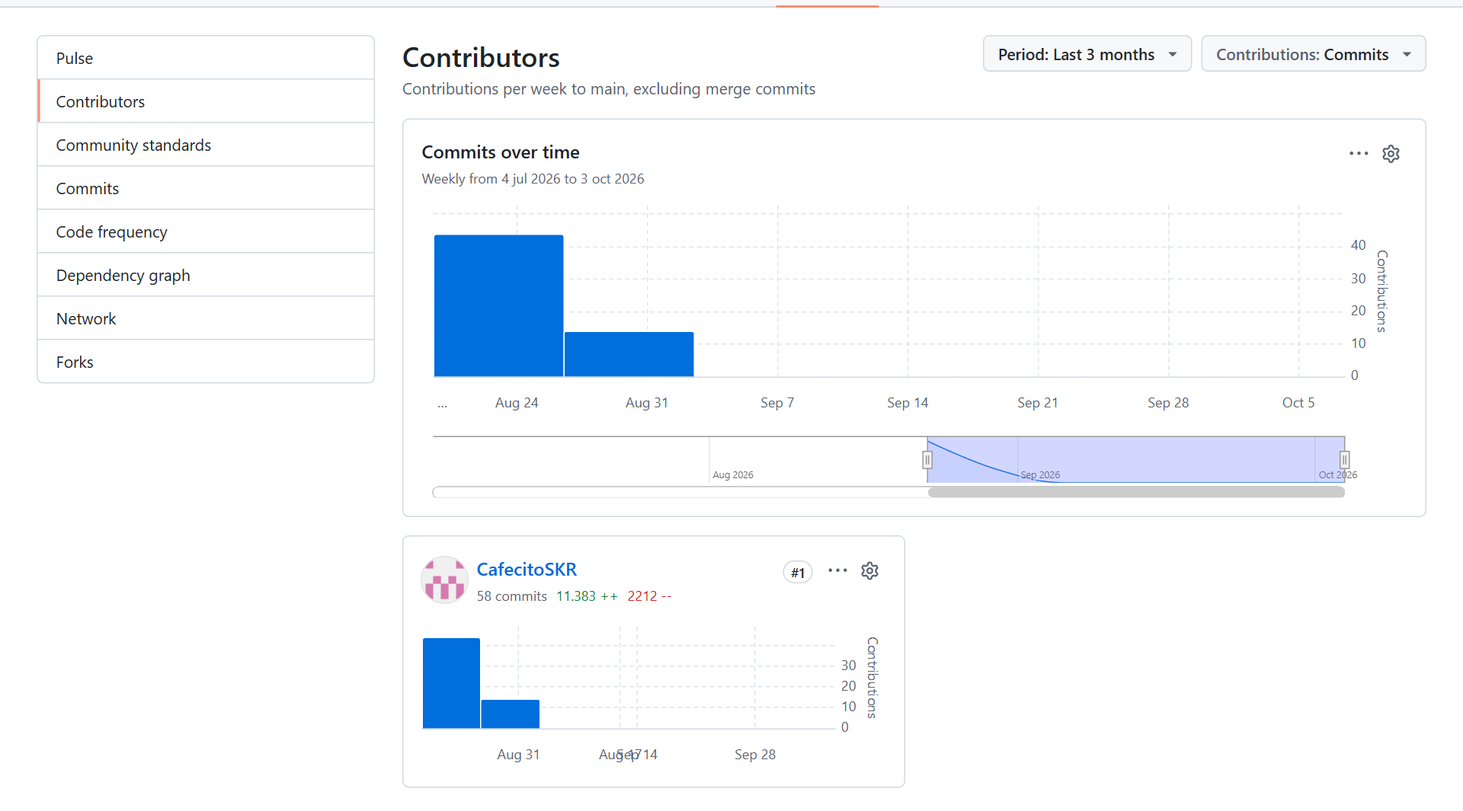
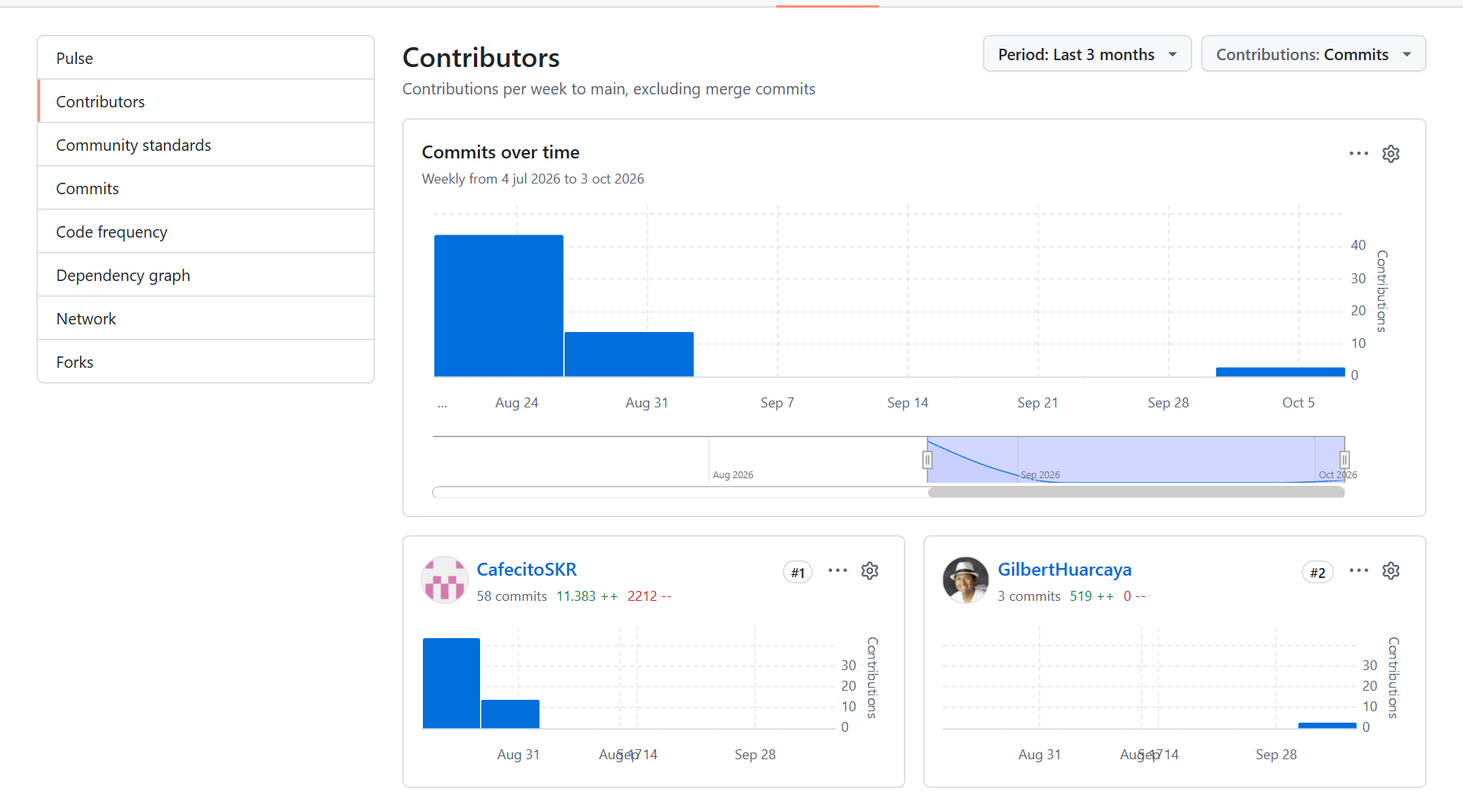
docs(report): sync tb1 version registry, student outcome and insights after the cloud-api release

diff --git a/README.md b/README.md
@@ -48,6 +48,18 @@
 | 0.14 | 14/09/2026 | Espino Flores, Alejandro | Sección 4.1: diseño estratégico con Bounded Context Canvases, Context Mapping con las alternativas descartadas y arquitectura C4 en sus cuatro niveles. |
 | 0.15 | 14/09/2026 | Espino Flores, Alejandro | Secciones 3.2 y 3.3: Impact Mapping con Business Goals en formato SMART, y Product Backlog con las 65 historias estimadas y ordenadas por valor de negocio. |
 | 0.16 | 14/09/2026 | Solis Santa Cruz, Giancarlo Rafael | Registro de entrevista para segmento objetivo 1 e impact mapping |
+| 0.17 | 18/09/2026 | Huarcaya Matias, Gilbert Alonso | Versión consolidada para la primera entrega, con los Capítulos I a IV. |
+| 0.18 | 18/09/2026 | Llamccaya Arone, Juan Paul | Se agregó el registro de una entrevista correspondiente al segmento objetivo 1, incluyendo la información recopilada y su respectivo análisis para complementar el proceso de levantamiento de requisitos. |
+| 0.19 | 18/09/2026 | Llamccaya Arone, Juan Paul | Se elaboró y organizó el Product Backlog del proyecto en Trello, incorporando las historias de usuario y técnicas previamente definidas y ordenándolas de acuerdo con su prioridad y valor de negocio. |
+| 0.20 | 29/09/2026 | Luyo Correa, Sandra Paula | Estructura de la entrega TB1: títulos de los Capítulos V y VI, tabla de contenidos y fecha de la carátula. |
+| 0.21 | 03/10/2026 | Llamccaya Arone, Juan Paul | Secciones 5.2.3, 5.2.4, 5.2.5, 5.3, 5.3.1 y 5.3.2: SEO Tags and Meta Tags, sistemas de búsqueda y navegación, y wireframes y mock-ups de la Landing Page publicada. |
+| 0.22 | 05/10/2026 | Huarcaya Matias, Gilbert Alonso | Secciones 5.4.1, 5.4.2 y 5.5: wireframes, mock-ups y prototipos de la Web Application y de la Mobile Application, con sus videos de navegación. Sección 6.2.1.2: matriz de líderes y colaboradores del Sprint 1. |
+| 0.23 | 06/10/2026 | Espino Flores, Alejandro | Secciones 5.1.1, 5.1.2, 5.2.1, 5.2.2, 5.6 y 6.1.1: guías de estilo, sistemas de organización y etiquetado, diseño del dispositivo IoT con su circuito en Wokwi y configuración del entorno de desarrollo. |
+| 0.24 | 06/10/2026 | Solis Santa Cruz, Giancarlo Rafael | Sección 5.4.4: User Flow Diagrams de la Web Application y de la Mobile Application. |
+| 0.25 | 06/10/2026 | Luyo Correa, Sandra Paula | Conclusiones de la entrega TB1 y enlaces a los repositorios de las aplicaciones. |
+| 0.26 | 07/10/2026 | Solis Santa Cruz, Giancarlo Rafael | Secciones 6.2.1.4, 6.2.1.6, 6.2.1.7 y 6.2.1.8: evidencias de desarrollo, ejecución, documentación de servicios y despliegue del Sprint 1. |
+| 0.27 | 07/10/2026 | Lang Nassi, Werner Khalil | Secciones 6.1.2, 6.1.3, 6.1.4 y 6.2.1.3: gestión del código fuente, guía de estilo y convenciones, configuración de despliegue y Sprint Backlog 1. |
+| 0.28 | 07/10/2026 | Huarcaya Matias, Gilbert Alonso | Secciones 6.2.1.5 y 6.2.1.9: suite de pruebas de los servicios web y analíticos de colaboración del Sprint 1. Project Report Collaboration Insights de TB1, renumeración de figuras y entradas de los Capítulos V y VI en la tabla de contenidos. |
 | AV1 | 18/09/2026 | Huarcaya Matias, Gilbert Alonso | Versión consolidada para la primera entrega, con los Capítulos I a IV. |
 
 <hr>
@@ -86,17 +98,17 @@ Entre el 1 y el 20 de septiembre de 2026 se registraron 63 commits de contenido,
 
 **TB1**
 
-En esta entrega el reparto de secciones se acordó en un documento compartido del equipo y los títulos de los Capítulos V y VI se publicaron primero en develop, para que cada integrante completara su parte sobre la misma estructura. Desde el 6 de octubre la organización protege main y develop, de modo que todo cambio entra por pull request y la rama se elimina al integrarse. Además del informe, en esta entrega se trabajó en los repositorios de los productos: el Landing Page, la Web Application, la Mobile Application y los RESTful Web Services. Entre el 21 de septiembre y el 7 de octubre se registraron 26 commits de contenido en el repositorio del informe y 6 en los repositorios de código. La participación de cada integrante por repositorio es la siguiente:
+En esta entrega el reparto de secciones se acordó en un documento compartido del equipo y los títulos de los Capítulos V y VI se publicaron primero en develop, para que cada integrante completara su parte sobre la misma estructura. Desde el 6 de octubre la organización protege main y develop, de modo que todo cambio entra por pull request y la rama se elimina al integrarse. Además del informe, en esta entrega se trabajó en los repositorios de los productos: el Landing Page, la Web Application, la Mobile Application y los RESTful Web Services. Entre el 21 de septiembre y el 7 de octubre se registraron 28 commits de contenido en el repositorio del informe y 9 en los repositorios de código. La participación de cada integrante por repositorio es la siguiente:
 
-| Integrante | Report | Landing | Web App | Mobile App | Total |
-|---|---|---|---|---|---|
-| Llamccaya Arone, Juan Paul | 3 | 4 | 0 | 0 | 7 |
-| Luyo Correa, Sandra Paula | 5 | 0 | 1 | 1 | 7 |
-| Solis Santa Cruz, Giancarlo Rafael | 7 | 0 | 0 | 0 | 7 |
-| Lang Nassi, Werner Khalil | 6 | 0 | 0 | 0 | 6 |
-| Espino Flores, Alejandro | 4 | 0 | 0 | 0 | 4 |
-| Huarcaya Matias, Gilbert Alonso | 1 | 0 | 0 | 0 | 1 |
-| Total | 26 | 4 | 1 | 1 | 32 |
+| Integrante | Report | Landing | Web App | Mobile App | cloud-api | Total |
+|---|---|---|---|---|---|---|
+| Lang Nassi, Werner Khalil | 7 | 0 | 0 | 0 | 0 | 7 |
+| Llamccaya Arone, Juan Paul | 3 | 4 | 0 | 0 | 0 | 7 |
+| Luyo Correa, Sandra Paula | 5 | 0 | 1 | 1 | 0 | 7 |
+| Solis Santa Cruz, Giancarlo Rafael | 7 | 0 | 0 | 0 | 0 | 7 |
+| Huarcaya Matias, Gilbert Alonso | 2 | 0 | 0 | 0 | 3 | 5 |
+| Espino Flores, Alejandro | 4 | 0 | 0 | 0 | 0 | 4 |
+| Total | 28 | 4 | 1 | 1 | 3 | 37 |
 
 Las capturas muestran el historial de commits del informe en develop durante la entrega, los pull requests del repositorio del informe y los analíticos de colaboración de los repositorios de código.
 
@@ -341,8 +353,8 @@ En el siguiente cuadro se describe las acciones realizadas y enunciados de concl
 
 | Criterio específico | Acciones realizadas | Conclusiones |
 | --- | --- | --- |
-| **Trabaja en equipo para proporcionar liderazgo en forma conjunta.** | **Espino Flores, Alejandro**<br>*AV1*<br>Asumí el liderazgo técnico en el diseño de la arquitectura del servicio RESTful interno, definiendo la separación en cuatro bounded contexts, la arquitectura por capas y el esquema de persistencia. También orienté la integración del trabajo técnico mediante la revisión de pull requests y documenté las principales decisiones de diseño estratégico y táctico. Además, participé en la elaboración del Impact Mapping y Product Backlog, contribuyendo a establecer prioridades y objetivos comunes para el desarrollo de SenseWork.<br><br>**Huarcaya Matias, Gilbert Alonso**<br>*AV1*<br>Asumí el liderazgo en las actividades de investigación y modelado del dominio, desarrollando el análisis competitivo y organizando las entrevistas dirigidas a ambos segmentos objetivo. Asimismo, elaboré los principales artefactos de Needfinding y desarrollé el Big Picture EventStorming, Design-Level EventStorming, Candidate Context Discovery, Domain Message Flows y Bounded Context Canvases. Con estas actividades contribuí a que el equipo tuviera una comprensión compartida del dominio y de la estructura de la solución.<br><br>**Lang Nassi, Werner Khalil**<br>*AV1*<br>Contribuí al liderazgo conjunto mediante la investigación y definición de la problemática del proyecto, aplicando la técnica de las 5W y 2H y utilizando información proveniente de fuentes oficiales. Asimismo, asumí la responsabilidad de elaborar las Epics y User Stories con sus respectivos criterios de aceptación en formato Gherkin, proporcionando al equipo una base clara para orientar la definición y posterior implementación de las funcionalidades.<br><br>**Llamccaya Arone, Juan Paul**<br>*AV1*<br>Participé en el liderazgo compartido mediante la elaboración del Lean UX Canvas y su respectiva descripción. También amplié y corregí las User Stories y Technical Stories del proyecto, ayudando a precisar los requisitos que guían el desarrollo de la solución. Además, participé en una entrevista correspondiente al primer segmento objetivo, aportando información directa de los usuarios para respaldar las decisiones tomadas por el equipo.<br><br>**Luyo Correa, Sandra Paula**<br>*AV1*<br>Asumí responsabilidades de liderazgo organizacional y documental al crear el repositorio del informe y establecer su estructura inicial, incluyendo la carátula, tabla de contenidos y registro de versiones. También desarrollé la descripción de la startup y parte del Lean UX Process, además de documentar las cuatro capas correspondientes a cada bounded context. Asimismo, elaboré los capítulos I, II y parte del IV del keynote, integrando y organizando los principales resultados desarrollados por el equipo para su presentación.<br><br>**Solis Santa Cruz, Giancarlo Rafael**<br>*AV1*<br>Contribuí al liderazgo conjunto mediante la elaboración de la sección correspondiente a los segmentos objetivo y la creación de una plantilla común para los perfiles de los integrantes. También participé en una entrevista del primer segmento objetivo y colaboré en la elaboración del Impact Mapping, aportando a la relación entre los objetivos del negocio, las necesidades identificadas y las funcionalidades propuestas para SenseWork. | Durante AV1, los integrantes de SenseWork asumimos responsabilidades complementarias en investigación, requisitos, modelado de dominio, arquitectura, documentación y organización del proyecto. Esta distribución permitió ejercer un liderazgo compartido, donde diferentes integrantes asumieron responsabilidad sobre aspectos específicos e integraron posteriormente sus resultados para mantener una visión común de la solución. |
-| **Crea un entorno colaborativo e inclusivo, establece metas, planifica tareas y cumple objetivos.** | **Espino Flores, Alejandro**<br>*AV1*<br>Contribuí al trabajo colaborativo estableciendo una estructura técnica organizada para el servicio RESTful y coordinando la integración de los diferentes aportes mediante la revisión de pull requests. Documenté los diagramas de componentes, clases y base de datos para que el equipo contara con una referencia técnica común. Asimismo, mediante el Impact Mapping y Product Backlog, colaboré en la definición y priorización de los objetivos y actividades necesarias para avanzar con el proyecto.<br><br>**Huarcaya Matias, Gilbert Alonso**<br>*AV1*<br>Promoví el trabajo colaborativo integrando la información obtenida del análisis competitivo, las entrevistas y los artefactos de Needfinding. Organicé los resultados obtenidos para que sirvieran como base de las decisiones posteriores del equipo. Además, desarrollé de manera estructurada los artefactos de EventStorming y Domain-Driven Design, y unifiqué el formato de figuras y la bibliografía bajo normas APA 7, contribuyendo a mantener consistencia en el informe grupal.<br><br>**Lang Nassi, Werner Khalil**<br>*AV1*<br>Contribuí al cumplimiento de los objetivos del equipo mediante la investigación de los antecedentes y la problemática, brindando información necesaria para delimitar correctamente el problema abordado. También organicé los requisitos mediante Epics y User Stories con criterios de aceptación en formato Gherkin, facilitando que el equipo contara con requisitos claros y verificables para planificar las siguientes actividades del proyecto.<br><br>**Llamccaya Arone, Juan Paul**<br>*AV1*<br>Apoyé la planificación del trabajo mediante la elaboración del Lean UX Canvas y el refinamiento de las User Stories y Technical Stories. Estas actividades permitieron mejorar la definición de los requisitos antes de continuar con las siguientes etapas del proyecto. Asimismo, colaboré en la recolección de información mediante una entrevista al primer segmento objetivo, incorporando la perspectiva de los usuarios al análisis realizado por el equipo.<br><br>**Luyo Correa, Sandra Paula**<br>*AV1*<br>Contribuí a crear un entorno organizado y colaborativo mediante la creación del repositorio del informe y la definición de una estructura documental común para el equipo. También participé en la recolección de información realizando dos entrevistas, una por cada segmento objetivo, y documenté las capas de los bounded contexts para facilitar la comprensión de la arquitectura entre los integrantes. Además, consolidé parte importante del keynote, integrando los aportes desarrollados y contribuyendo al cumplimiento de los objetivos establecidos para AV1.<br><br>**Solis Santa Cruz, Giancarlo Rafael**<br>*AV1*<br>Contribuí al trabajo colaborativo mediante la definición de los segmentos objetivo y la elaboración de una plantilla común para mantener uniformidad en los perfiles de los integrantes. También participé en una entrevista correspondiente al primer segmento y colaboré en el Impact Mapping, ayudando a relacionar las necesidades identificadas con los objetivos del negocio y las funcionalidades planteadas para la solución. | Durante AV1, establecimos una dinámica colaborativa basada en la distribución de responsabilidades, integración de aportes y cumplimiento de los objetivos definidos para la entrega. Las actividades desarrolladas de manera complementaria permitieron que los resultados de cada integrante sirvieran como insumo para el trabajo de los demás, manteniendo una organización común y contribuyendo al cumplimiento de las metas establecidas. |
+| **Trabaja en equipo para proporcionar liderazgo en forma conjunta.** | **Espino Flores, Alejandro**<br>*AV1*<br>Asumí el liderazgo técnico en el diseño de la arquitectura del servicio RESTful interno, definiendo la separación en cuatro bounded contexts, la arquitectura por capas y el esquema de persistencia. También orienté la integración del trabajo técnico mediante la revisión de pull requests y documenté las principales decisiones de diseño estratégico y táctico. Además, participé en la elaboración del Impact Mapping y Product Backlog, contribuyendo a establecer prioridades y objetivos comunes para el desarrollo de SenseWork.<br><br>*TB1*<br>Asumí responsabilidades de liderazgo técnico al definir las guías de estilo generales y específicas para web, móvil e IoT, así como los sistemas de organización y etiquetado de la información. Además, desarrollé el diseño del dispositivo IoT y documenté la configuración del entorno de desarrollo. Elaboré los Project Report Collaboration Insights, aportando una referencia sobre la participación del equipo y conectando las decisiones de diseño con la preparación técnica de la solución.<br><br>**Huarcaya Matias, Gilbert Alonso**<br>*AV1*<br>Asumí el liderazgo en las actividades de investigación y modelado del dominio, desarrollando el análisis competitivo y organizando las entrevistas dirigidas a ambos segmentos objetivo. Asimismo, elaboré los principales artefactos de Needfinding y desarrollé el Big Picture EventStorming, Design-Level EventStorming, Candidate Context Discovery, Domain Message Flows y Bounded Context Canvases. Con estas actividades contribuí a que el equipo tuviera una comprensión compartida del dominio y de la estructura de la solución.<br><br>*TB1*<br>Participé en el liderazgo compartido del diseño de las aplicaciones junto con Sandra Paula, desarrollando los wireframes, mock-ups y prototipos de ZenRoom. Asimismo, documenté los Aspect Leaders and Collaborators y los Team Collaboration Insights del Sprint 1, haciendo explícitas las responsabilidades y los aportes de cada integrante. Con ello contribuí a vincular el trabajo de diseño con la organización de las actividades del sprint.<br><br>**Lang Nassi, Werner Khalil**<br>*AV1*<br>Contribuí al liderazgo conjunto mediante la investigación y definición de la problemática del proyecto, aplicando la técnica de las 5W y 2H y utilizando información proveniente de fuentes oficiales. Asimismo, asumí la responsabilidad de elaborar las Epics y User Stories con sus respectivos criterios de aceptación en formato Gherkin, proporcionando al equipo una base clara para orientar la definición y posterior implementación de las funcionalidades.<br><br>*TB1*<br>Contribuí al liderazgo conjunto mediante la elaboración de los wireflow diagrams de las aplicaciones y la documentación de la gestión del código fuente, las convenciones de programación y la configuración del despliegue. Además, desarrollé el Sprint Planning 1 y colaboré con Giancarlo en el Sprint Backlog 1 y las evidencias de la suite de pruebas, proporcionando una base organizada para planificar y revisar el trabajo del primer sprint.<br><br>**Llamccaya Arone, Juan Paul**<br>*AV1*<br>Participé en el liderazgo compartido mediante la elaboración del Lean UX Canvas y su respectiva descripción. También amplié y corregí las User Stories y Technical Stories del proyecto, ayudando a precisar los requisitos que guían el desarrollo de la solución. Además, participé en una entrevista correspondiente al primer segmento objetivo, aportando información directa de los usuarios para respaldar las decisiones tomadas por el equipo.<br><br>*TB1*<br>Asumí la responsabilidad del diseño y desarrollo de la Landing Page, elaborando sus wireframes y mock-up. También definí los SEO Tags and Meta Tags y los sistemas de búsqueda y navegación. Mediante estos aportes contribuí al liderazgo compartido en la presentación de la solución y en la definición de recorridos claros para acceder a su información, complementando el diseño de las aplicaciones realizado por el equipo.<br><br>**Luyo Correa, Sandra Paula**<br>*AV1*<br>Asumí responsabilidades de liderazgo organizacional y documental al crear el repositorio del informe y establecer su estructura inicial, incluyendo la carátula, tabla de contenidos y registro de versiones. También desarrollé la descripción de la startup y parte del Lean UX Process, además de documentar las cuatro capas correspondientes a cada bounded context. Asimismo, elaboré los capítulos I, II y parte del IV del keynote, integrando y organizando los principales resultados desarrollados por el equipo para su presentación.<br><br>*TB1*<br>Participé en el liderazgo compartido del diseño de ZenRoom junto con Gilbert, elaborando los wireframes, mock-ups y prototipos de las aplicaciones. Asimismo, actualicé el registro de versiones del informe y desarrollé la sección Student Outcome y las conclusiones de la entrega. Con estas actividades contribuí a integrar los resultados del equipo y a mantener la continuidad documental entre los avances del proyecto.<br><br>**Solis Santa Cruz, Giancarlo Rafael**<br>*AV1*<br>Contribuí al liderazgo conjunto mediante la elaboración de la sección correspondiente a los segmentos objetivo y la creación de una plantilla común para los perfiles de los integrantes. También participé en una entrevista del primer segmento objetivo y colaboré en la elaboración del Impact Mapping, aportando a la relación entre los objetivos del negocio, las necesidades identificadas y las funcionalidades propuestas para SenseWork.<br><br>*TB1*<br>Contribuí al liderazgo conjunto mediante la elaboración de los user flow diagrams de las aplicaciones y colaboré con Werner en el Sprint Backlog 1 y las evidencias de la suite de pruebas. Además, documenté las evidencias de desarrollo, ejecución, servicios y despliegue para la revisión del Sprint 1, proporcionando al equipo información organizada para sustentar el avance de la implementación. | Durante AV1, los integrantes de SenseWork asumimos responsabilidades complementarias en investigación, requisitos, modelado de dominio, arquitectura, documentación y organización del proyecto. Esta distribución permitió ejercer un liderazgo compartido, donde diferentes integrantes asumieron responsabilidad sobre aspectos específicos e integraron posteriormente sus resultados para mantener una visión común de la solución.<br><br>Durante TB1, ejercimos un liderazgo compartido mediante responsabilidades complementarias en diseño UX/UI, Landing Page, dispositivo IoT, configuración de software, planificación del sprint y documentación de evidencias. El trabajo conjunto en los prototipos, el backlog y las pruebas permitió integrar aportes de distintos integrantes. Asimismo, la identificación de líderes y colaboradores y el registro de las contribuciones ayudaron a hacer visibles las responsabilidades asumidas y a mantener una visión común de ZenRoom. |
+| **Crea un entorno colaborativo e inclusivo, establece metas, planifica tareas y cumple objetivos.** | **Espino Flores, Alejandro**<br>*AV1*<br>Contribuí al trabajo colaborativo estableciendo una estructura técnica organizada para el servicio RESTful y coordinando la integración de los diferentes aportes mediante la revisión de pull requests. Documenté los diagramas de componentes, clases y base de datos para que el equipo contara con una referencia técnica común. Asimismo, mediante el Impact Mapping y Product Backlog, colaboré en la definición y priorización de los objetivos y actividades necesarias para avanzar con el proyecto.<br><br>*TB1*<br>Contribuí al trabajo colaborativo mediante la definición de guías de estilo y sistemas de organización y etiquetado que sirvieron como referencia común para el diseño de la solución. Documenté el entorno de desarrollo y el diseño del dispositivo IoT para facilitar la comprensión técnica compartida. Asimismo, elaboré los Project Report Collaboration Insights, reuniendo información sobre las contribuciones al informe y apoyando el seguimiento del trabajo realizado para TB1.<br><br>**Huarcaya Matias, Gilbert Alonso**<br>*AV1*<br>Promoví el trabajo colaborativo integrando la información obtenida del análisis competitivo, las entrevistas y los artefactos de Needfinding. Organicé los resultados obtenidos para que sirvieran como base de las decisiones posteriores del equipo. Además, desarrollé de manera estructurada los artefactos de EventStorming y Domain-Driven Design, y unifiqué el formato de figuras y la bibliografía bajo normas APA 7, contribuyendo a mantener consistencia en el informe grupal.<br><br>*TB1*<br>Trabajé de manera conjunta con Sandra Paula en los wireframes, mock-ups y prototipos de las aplicaciones, integrando nuestros aportes en el diseño de ZenRoom. Documenté los líderes y colaboradores por aspecto y los Team Collaboration Insights del Sprint 1, contribuyendo a hacer visibles las responsabilidades y la participación de los integrantes. Estas actividades facilitaron la articulación del trabajo de diseño con los objetivos y tareas de la entrega.<br><br>**Lang Nassi, Werner Khalil**<br>*AV1*<br>Contribuí al cumplimiento de los objetivos del equipo mediante la investigación de los antecedentes y la problemática, brindando información necesaria para delimitar correctamente el problema abordado. También organicé los requisitos mediante Epics y User Stories con criterios de aceptación en formato Gherkin, facilitando que el equipo contara con requisitos claros y verificables para planificar las siguientes actividades del proyecto.<br><br>*TB1*<br>Apoyé la planificación de las tareas mediante el Sprint Planning 1 y la elaboración del Sprint Backlog 1 junto con Giancarlo. Documenté la gestión del código fuente, las convenciones de programación y la configuración de despliegue para proporcionar pautas comunes de trabajo. Además, desarrollé los wireflow diagrams y colaboré en las evidencias de la suite de pruebas, contribuyendo a organizar los recorridos de las aplicaciones y la revisión de los resultados del sprint.<br><br>**Llamccaya Arone, Juan Paul**<br>*AV1*<br>Apoyé la planificación del trabajo mediante la elaboración del Lean UX Canvas y el refinamiento de las User Stories y Technical Stories. Estas actividades permitieron mejorar la definición de los requisitos antes de continuar con las siguientes etapas del proyecto. Asimismo, colaboré en la recolección de información mediante una entrevista al primer segmento objetivo, incorporando la perspectiva de los usuarios al análisis realizado por el equipo.<br><br>*TB1*<br>Contribuí al cumplimiento de los objetivos de TB1 mediante el diseño y desarrollo de la Landing Page y la documentación de sus wireframes y mock-up. Definí los metadatos SEO y los sistemas de búsqueda y navegación para organizar el acceso al contenido de la solución. Estos entregables complementaron el trabajo de los demás integrantes y aportaron una base para presentar ZenRoom de manera coherente con las necesidades de sus segmentos objetivo.<br><br>**Luyo Correa, Sandra Paula**<br>*AV1*<br>Contribuí a crear un entorno organizado y colaborativo mediante la creación del repositorio del informe y la definición de una estructura documental común para el equipo. También participé en la recolección de información realizando dos entrevistas, una por cada segmento objetivo, y documenté las capas de los bounded contexts para facilitar la comprensión de la arquitectura entre los integrantes. Además, consolidé parte importante del keynote, integrando los aportes desarrollados y contribuyendo al cumplimiento de los objetivos establecidos para AV1.<br><br>*TB1*<br>Colaboré con Gilbert en el desarrollo de los wireframes, mock-ups y prototipos de las aplicaciones, integrando el trabajo de ambos en los entregables de diseño. Actualicé el registro de versiones para mantener la trazabilidad de las modificaciones del informe y redacté el Student Outcome y las conclusiones de TB1. De esta manera, contribuí a consolidar los aportes de los integrantes y a documentar el cumplimiento de los objetivos de la entrega.<br><br>**Solis Santa Cruz, Giancarlo Rafael**<br>*AV1*<br>Contribuí al trabajo colaborativo mediante la definición de los segmentos objetivo y la elaboración de una plantilla común para mantener uniformidad en los perfiles de los integrantes. También participé en una entrevista correspondiente al primer segmento y colaboré en el Impact Mapping, ayudando a relacionar las necesidades identificadas con los objetivos del negocio y las funcionalidades planteadas para la solución.<br><br>*TB1*<br>Colaboré con Werner en la elaboración del Sprint Backlog 1 y las evidencias de la suite de pruebas, apoyando la organización de tareas y la revisión del trabajo realizado. Desarrollé los user flow diagrams y reuní las evidencias de desarrollo, ejecución, documentación de servicios y despliegue del Sprint 1. Estos aportes facilitaron que el equipo contara con información común para presentar y revisar los resultados de TB1. | Durante AV1, establecimos una dinámica colaborativa basada en la distribución de responsabilidades, integración de aportes y cumplimiento de los objetivos definidos para la entrega. Las actividades desarrolladas de manera complementaria permitieron que los resultados de cada integrante sirvieran como insumo para el trabajo de los demás, manteniendo una organización común y contribuyendo al cumplimiento de las metas establecidas.<br><br>Durante TB1, organizamos el trabajo mediante la planificación del Sprint 1, la elaboración del backlog y la distribución de responsabilidades de diseño, configuración y documentación. Las guías de estilo, los diagramas de flujo y los prototipos aportaron referencias comunes para las aplicaciones y la Landing Page. La colaboración en diseño y pruebas, junto con los registros de participación y las evidencias del sprint, permitió integrar los aportes de los seis integrantes y sustentar los objetivos alcanzados en esta entrega. |
 
 <hr>
 
@@ -3687,7 +3699,7 @@ Las funcionalidades se distribuyen en tres columnas. La sección por audiencia c
 </p>
 
 <p align="center">
-  <em>Figura X. Wireframe de la landing page de ZenRoom para escritorio. Fuente: elaboración propia en Figma.</em>
+  <em>Figura 62. Wireframe de la landing page de ZenRoom para escritorio. Fuente: elaboración propia en Figma.</em>
 </p>
 
 <p align="center">
@@ -3710,7 +3722,7 @@ La versión móvil conserva el orden de información de escritorio para mantener
 </p>
 
 <p align="center">
-  <em>Figura X. Wireframe de la landing page de ZenRoom para dispositivos móviles. Fuente: elaboración propia en Figma.</em>
+  <em>Figura 63. Wireframe de la landing page de ZenRoom para dispositivos móviles. Fuente: elaboración propia en Figma.</em>
 </p>
 
 <p align="center">
@@ -3778,7 +3790,7 @@ Las secciones mantienen una jerarquía tipográfica consistente y utilizan espac
 </p>
 
 <p align="center">
-  <em>Figura X. Mock-up de la landing page de ZenRoom para escritorio. Fuente: elaboración propia en Figma.</em>
+  <em>Figura 64. Mock-up de la landing page de ZenRoom para escritorio. Fuente: elaboración propia en Figma.</em>
 </p>
 
 <p align="center">
@@ -3800,7 +3812,7 @@ Los componentes mantienen etiquetas legibles y separación entre acciones. Los e
 </p>
 
 <p align="center">
-  <em>Figura X. Mock-up de la landing page de ZenRoom para dispositivos móviles. Fuente: elaboración propia en Figma.</em>
+  <em>Figura 65. Mock-up de la landing page de ZenRoom para dispositivos móviles. Fuente: elaboración propia en Figma.</em>
 </p>
 
 <p align="center">
@@ -5183,8 +5195,6 @@ L: Leader (líder del aspecto). C: Collaborator (colaborador). Una celda vacía 
 
 #### 6.2.1.3. Sprint Backlog 1.
 
-#### **6.2.1.3. Sprint Backlog 1\.**
-
 El objetivo del Sprint 1 es que el administrador de un coworking conozca ZenRoom y pueda poner su espacio en la plataforma: que un visitante comprenda la propuesta de valor, la privacidad y los planes y solicite una demostración desde la Landing Page; que un administrador se registre, inicie sesión, dé de alta sus locales, salas, tipos de sala y dispositivos y consulte el estado general de su local desde la Web Application; y que ambos productos se apoyen en servicios REST seguros y documentados. Para lograrlo, el equipo comprometió 17 historias (42 Story Points) y las descompuso en 47 tareas con 194 horas estimadas, repartidas entre el frontend (Landing Page y Web Application) y el backend (cloud-api), junto con las tareas generales de despliegue y pruebas.
 
 El seguimiento del sprint se realiza en un tablero de Trello con las columnas To-Do, In-Process, To-Review y Done. La siguiente figura muestra el estado del tablero al iniciar el sprint.
@@ -5278,7 +5288,7 @@ Finalmente, en el repositorio correspondiente a la **aplicación web**, se regis
 
 En el Sprint 1 las pruebas se concentraron en los RESTful Web Services del repositorio cloud-api, que son la base sobre la que trabajan la Web Application y la Mobile Application. La suite cubre tres niveles. Las pruebas unitarias revisan las reglas del dominio en los agregados Site, Room, Device y User. Las pruebas de integración de la capa web levantan los controladores con su configuración de seguridad real y comprueban el inicio de sesión (TS7) y el registro de locales (TS8). Las pruebas de aceptación están escritas en Gherkin y se ejecutan con Cucumber sobre la historia US11, registrar locales y salas.
 
-La suite está en la rama test/sprint-1-testing-suite del repositorio https://github.com/Grupo03-IOT/cloud-api, dentro de src/test/java/com/pe/cloudapi, y la especificación en Gherkin está en src/test/resources/features/us11_register_sites.feature. Se ejecuta con ./gradlew test; la prueba contextLoads que ya existía necesita la base de datos del proyecto, que se levanta con docker compose up -d db.
+La suite entró por pull request a la rama dev y después a main del repositorio https://github.com/Grupo03-IOT/cloud-api, y está dentro de src/test/java/com/pe/cloudapi, y la especificación en Gherkin está en src/test/resources/features/us11_register_sites.feature. Se ejecuta con ./gradlew test; la prueba contextLoads que ya existía necesita la base de datos del proyecto, que se levanta con docker compose up -d db.
 
 | Nivel | Clase de prueba | Qué comprueba | Pruebas |
 |---|---|---|---|
@@ -5491,7 +5501,7 @@ El repositorio tiene cuatro commits de Llamccaya Arone entre el 3 y el 6 de octu
 
 ##### RESTful Web Services
 
-cloud-api concentra 63 commits de Espino Flores (GitHub atribuye 58 a su usuario y los otros 5 se hicieron con otra dirección de correo), todos de finales de agosto y del 1 de septiembre, cuando se construyó el servicio con sus cuatro bounded contexts. Durante el Sprint 1 el servicio no cambió: las aplicaciones se diseñaron sobre los endpoints que ya existían y, en su modo real, apuntan a esa misma API ejecutándose en local.
+cloud-api concentra 63 commits de Espino Flores (GitHub atribuye 58 a su usuario y los otros 5 se hicieron con otra dirección de correo), de finales de agosto y del 1 de septiembre, cuando se construyó el servicio con sus cuatro bounded contexts. En el Sprint 1 se sumaron los tres commits de Huarcaya Matias con la suite de pruebas de la sección 6.2.1.5, que entraron por pull request a dev y después a main. Las aplicaciones se diseñaron sobre los endpoints que ya existían y, en su modo real, apuntan a esa misma API ejecutándose en local.
 
 <p align="center"><em>Figura 107.</em> Analíticos de colaboración del repositorio cloud-api.</p>
 
@@ -5513,7 +5523,7 @@ También entró en un solo commit de Luyo Correa el 6 de octubre, con la misma s
 
 <p align="center"><img src="assets/collaboration/tb1-mobile-app-contributors.png" alt="Contributors de zenroom-mobile-app en GitHub" width="900"></p>
 
-Lo que muestran los analíticos es que cada repositorio de implementación tiene hoy un solo autor. El aporte del resto del equipo en este sprint está en lo que esas aplicaciones implementan, los wireframes, mock-ups, wireflows y user flows del Capítulo V, y en la planificación del sprint, pero no aparece en el historial de código porque cada versión inicial se subió completa en un commit. Para el Sprint 2 cada repositorio va a trabajar como ya trabaja el informe, con ramas feature y pull requests revisados por otro integrante, así el aporte de cada uno queda registrado por autor y la revisión queda en GitHub.
+Lo que muestran los analíticos es que el Landing Page, la Web Application y la Mobile Application tienen hoy un solo autor cada uno, y cloud-api suma a Espino Flores y a Huarcaya Matias. El aporte del resto del equipo en este sprint está en lo que esas aplicaciones implementan, los wireframes, mock-ups, wireflows y user flows del Capítulo V, y en la planificación del sprint, pero no aparece en el historial de código porque cada versión inicial se subió completa en un commit. Para el Sprint 2 cada repositorio va a trabajar como ya trabaja el informe, con ramas feature y pull requests revisados por otro integrante, así el aporte de cada uno queda registrado por autor y la revisión queda en GitHub.
 
 <hr>
 
